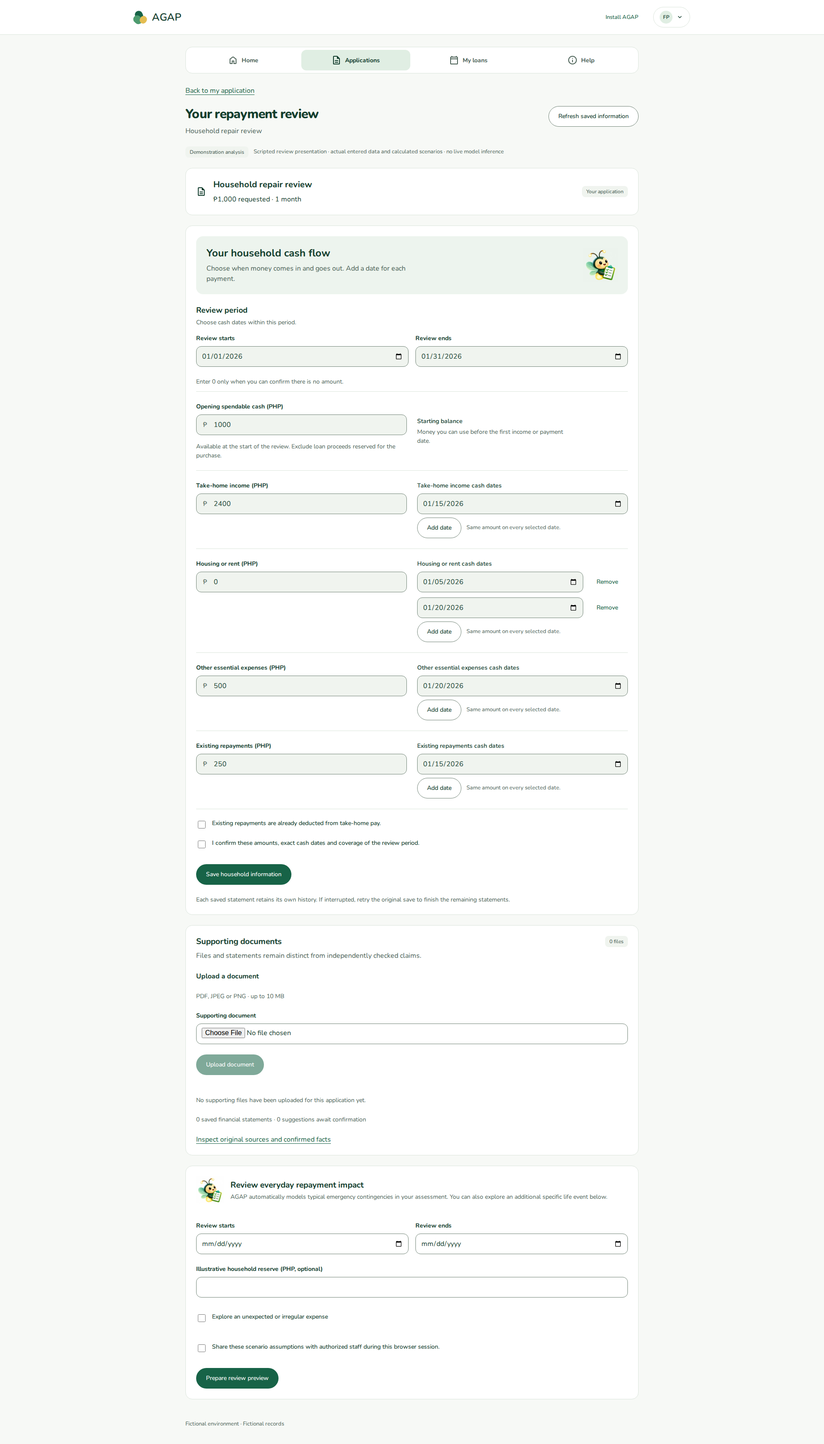
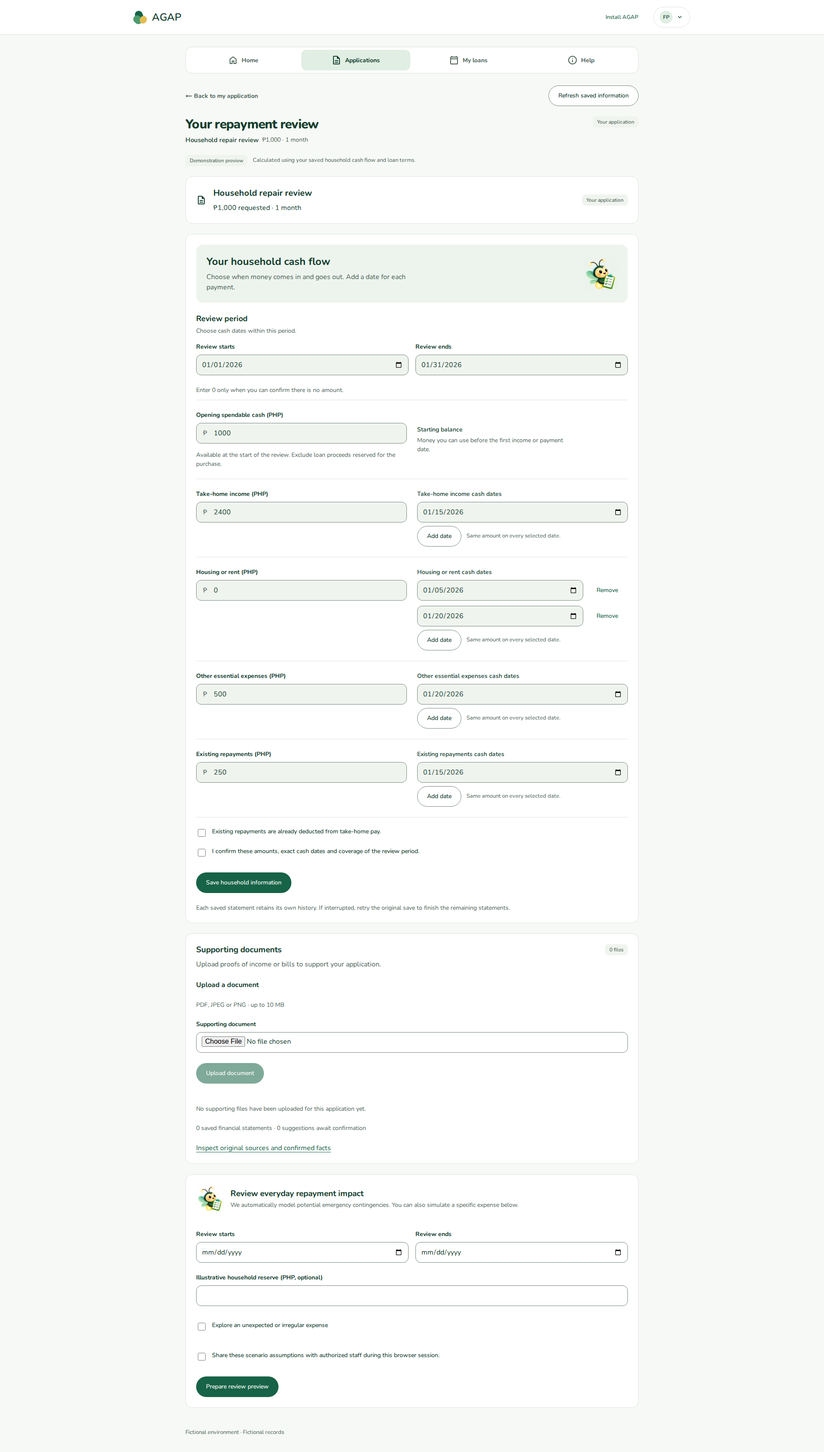
feat(review-ui): streamline page hierarchy, remove robotic text, and promote review results to top

diff --git a/src/features/review-preview/PreviewPages.tsx b/src/features/review-preview/PreviewPages.tsx
@@ -20,12 +20,31 @@ import styles from './preview.module.css';
 const steps=['Gathering saved information','Checking sources and missing details','Comparing repayment scenarios','Preparing the 5C review'];
 export function MemberPreviewPage(){const {id}=useParams(),{session,client}=useMember();if(!session||session.recordMode==='real')return <Notice>Demonstration analysis is available only in the fictional environment.</Notice>;return <PreviewWorkspace key={`${id}:${session.principal.memberId}`} id={id!} member client={client} csrf={session.csrfToken}/>;}
 export function StaffPreviewPage(){const {id}=useParams(),{session,client}=useStaff();if(!session||session.recordMode==='real'||!session.user.roles.some(r=>['officer','reviewer','auditor'].includes(r)))return <Notice>Demonstration analysis requires authorized lending-review access in the fictional environment.</Notice>;return <PreviewWorkspace key={`${id}:${session.user.id}`} id={id!} member={false} client={client} csrf={session.csrfToken} actor={{id:session.user.id,name:session.user.displayName,roles:session.user.roles}}/>;}
-function Disclosure(){return <p className={styles.disclosure}><Badge>Demonstration analysis</Badge><span>Scripted review presentation · actual entered data and calculated scenarios · no live model inference</span></p>;}
+function Disclosure(){return <p className={styles.disclosure}><Badge tone="neutral">Demonstration preview</Badge><span>Calculated using your saved household cash flow and loan terms.</span></p>;}
 function PreviewWorkspace({id,member,client,csrf,actor}:{id:string;member:boolean;client:AgapClient;csrf:string;actor?:{id:string;name:string;roles:string[]}}){
  const load=useCallback(async(signal:AbortSignal)=>{const [application,view]=await Promise.all([member?client.getMemberApplication(id,{signal}):client.getApplication(id,{signal}),member?client.getMemberWorkflow(id,{signal}):client.getStaffWorkflow(id,{signal})]);return {application,view};},[client,id,member]);
  const read=useResource(load),[blocked,setBlocked]=useState(false);
  const base=member?`/member/applications/${id}`:`/staff/applications/${id}/evidence`;
- return <div className="stack"><Link to={base}>{member?'Back to my application':'Back to evidence'}</Link><header className={styles.heading}><div><h1>{member?'Your repayment review':'Application analysis'}</h1><p>{read.data?.application.purpose??'Household needs, repayment options and a 5C handoff.'}</p></div><Button variant="secondary" disabled={read.loading||blocked} onClick={read.refresh}>Refresh saved information</Button></header><Disclosure/>{read.loading&&<p role="status">Opening authorized application information…</p>}{read.error&&<Notice tone="warning" role="alert">{read.error}</Notice>}{read.data&&<WorkspaceData key={materialBasis(read.data.view)} view={read.data.view} purpose={read.data.application.purpose} requested={read.data.application.requestedPrincipalCentavos} term={read.data.application.requestedTermMonths} member={member} client={client} csrf={csrf} refresh={read.refresh} onBlocked={setBlocked} officer={actor&&(actor.roles.includes('reviewer')||actor.roles.includes('officer')&&'assignedOfficerId' in read.data.application&&read.data.application.assignedOfficerId===actor.id)?actor.name:undefined}/>}</div>;
+ return <div className="stack">
+  <div className={styles.topRow}>
+   <Link to={base} className={styles.backLink}>← {member?'Back to my application':'Back to evidence'}</Link>
+   <Button variant="secondary" disabled={read.loading||blocked} onClick={read.refresh}>Refresh saved information</Button>
+  </div>
+  <header className={styles.heading}>
+   <div>
+    <h1>{member?'Your repayment review':'Application analysis'}</h1>
+    <div className={styles.headerMeta}>
+     <span className={styles.purposePill}>{read.data?.application.purpose??'Household needs, repayment options and a 5C handoff.'}</span>
+     {read.data?.application&&<span className={styles.amountPill}><Money value={read.data.application.requestedPrincipalCentavos}/> · {read.data.application.requestedTermMonths} {read.data.application.requestedTermMonths===1?'month':'months'}</span>}
+    </div>
+   </div>
+   <Badge tone="neutral">{member?'Your application':'Authorized staff view'}</Badge>
+  </header>
+  <Disclosure/>
+  {read.loading&&<p role="status">Opening authorized application information…</p>}
+  {read.error&&<Notice tone="warning" role="alert">{read.error}</Notice>}
+  {read.data&&<WorkspaceData key={materialBasis(read.data.view)} view={read.data.view} purpose={read.data.application.purpose} requested={read.data.application.requestedPrincipalCentavos} term={read.data.application.requestedTermMonths} member={member} client={client} csrf={csrf} refresh={read.refresh} onBlocked={setBlocked} officer={actor&&(actor.roles.includes('reviewer')||actor.roles.includes('officer')&&'assignedOfficerId' in read.data.application&&read.data.application.assignedOfficerId===actor.id)?actor.name:undefined}/>}
+ </div>;
 }
 function WorkspaceData({view,purpose,requested,term,member,client,csrf,refresh,officer,onBlocked}:{view:View;purpose:string;requested:number;term:number;member:boolean;client:AgapClient;csrf:string;refresh:()=>void;officer?:string;onBlocked:(value:boolean)=>void}){
  const context=usePreview(),basis=materialBasis(view),initial=context.get(view.applicationId,basis)??defaultAssumptions(view);
@@ -38,12 +57,42 @@ function WorkspaceData({view,purpose,requested,term,member,client,csrf,refresh,o
  useEffect(()=>{if(!active||active.stage>=steps.length)return;const delay=window.matchMedia('(prefers-reduced-motion: reduce)').matches?0:650;timer.current=setTimeout(()=>setRun(old=>old?.basis===basis?{...old,stage:old.stage+1}:old),delay);return()=>{if(timer.current)clearTimeout(timer.current);};},[active,basis]);
  useEffect(()=>{if(active?.stage===steps.length){result.current?.scrollIntoView({block:'start'});result.current?.focus({preventScroll:true});}},[active?.stage]);
  function start(assumptions:Assumptions,share:boolean){if(householdBusy||uploadBusy)return;context.share(view.applicationId,share?{basis,assumptions}:null);setLast(assumptions);setEditing(false);setRun({basis,assumptions,stage:0});}
- return <><section className={`panel panel-body ${styles.request}`}><Description size={24}/><div><h2>{purpose}</h2><p><Money value={requested}/> requested · {term} {term===1?'month':'months'}</p></div><Badge>{member?'Your application':'Authorized staff view'}</Badge></section>
- {member&&<section className="panel panel-body"><HouseholdForm key={view.applicationId} view={view} client={client} csrf={csrf} member saved={refresh} onBusy={setHouseholdBusy} disabled={uploadBusy}/></section>}
- <section className="panel panel-body stack"><div className={styles.heading}><div><h2>Supporting documents</h2><p>Files and statements remain distinct from independently checked claims.</p></div><Badge>{view.sources.filter(s=>s.kind==='document').length} {view.sources.filter(s=>s.kind==='document').length===1?'file':'files'}</Badge></div>{member&&<WorkflowUpload id={view.applicationId} client={client} csrf={csrf} member saved={refresh} onBusy={setUploadBusy} disabled={householdBusy}/>}<div className={styles.sources}>{view.sources.filter(s=>s.kind==='document').map(s=><article key={s.id}><Description/><div><h3>{s.label}</h3><p>{s.state==='cleared'?'File checks passed':s.state==='blocked'?'File unavailable':'Received · awaiting file checks'}</p></div><Badge tone={s.state==='cleared'?'neutral':'warning'}>{s.verification==='supported'?'Verification recorded':'Not independently verified'}</Badge></article>)}</div>{!view.sources.some(s=>s.kind==='document')&&<p className="small subtle">No supporting files have been uploaded for this application yet.</p>}<p className="small subtle">{view.facts.length} saved financial statements · {view.drafts.filter(d=>d.state==='suggested').length} suggestions await confirmation</p><Link to={member?`/member/applications/${view.applicationId}`:`/staff/applications/${view.applicationId}/evidence`}>Inspect original sources and confirmed facts</Link></section>
- {(editing||!active)&&<section className="panel panel-body"><ScenarioForm key={basis} initial={last} run={start} disabled={householdBusy||uploadBusy}/></section>}
- {active&&active.stage<steps.length&&<section className={`panel panel-body stack ${styles.processing}`} aria-label="Demonstration review processing"><div className={styles.heading}><FindInPage size={28}/><h2>Preparing your review</h2><Badge>Demo playback</Badge></div><p role="status">{steps[active.stage]}…</p><ol className={styles.progress}>{steps.map((step,i)=><li key={step} aria-current={i===active.stage?'step':undefined} data-complete={i<active.stage}><span>{i+1}</span>{step}<small>{i<active.stage?'Complete':i===active.stage?'In progress':'Next'}</small></li>)}</ol><div className="actions"><Button onClick={()=>setRun({...active,stage:steps.length})}>Show review now</Button><Button variant="secondary" onClick={()=>{setRun(null);setEditing(true);}}>Cancel review</Button></div></section>}
- {active&&active.stage===steps.length&&<><h2 ref={result} tabIndex={-1} className={styles.resultHeading}>Analysis and next steps</h2><ReviewReport key={JSON.stringify(active.assumptions)} view={view} purpose={purpose} member={member} assumptions={active.assumptions} officer={officer} revise={()=>{setEditing(true);setRun(null);}}/></>}
+
+ const isResultsReady=active&&active.stage===steps.length;
+
+ return <>
+  {!isResultsReady&&<section className={`panel panel-body ${styles.request}`}><Description size={24}/><div><h2>{purpose}</h2><p><Money value={requested}/> requested · {term} {term===1?'month':'months'}</p></div><Badge>{member?'Your application':'Authorized staff view'}</Badge></section>}
+
+  {isResultsReady&&<>
+   <h2 ref={result} tabIndex={-1} className={styles.resultHeading}>Analysis and next steps</h2>
+   <ReviewReport key={JSON.stringify(active.assumptions)} view={view} purpose={purpose} member={member} assumptions={active.assumptions} officer={officer} revise={()=>{setEditing(true);setRun(null);}}/>
+  </>}
+
+  {(editing||!active)&&<>
+   {member&&<section className="panel panel-body"><HouseholdForm key={view.applicationId} view={view} client={client} csrf={csrf} member saved={refresh} onBusy={setHouseholdBusy} disabled={uploadBusy}/></section>}
+   <section className="panel panel-body stack"><div className={styles.heading}><div><h2>Supporting documents</h2><p>Upload proofs of income or bills to support your application.</p></div><Badge>{view.sources.filter(s=>s.kind==='document').length} {view.sources.filter(s=>s.kind==='document').length===1?'file':'files'}</Badge></div>{member&&<WorkflowUpload id={view.applicationId} client={client} csrf={csrf} member saved={refresh} onBusy={setUploadBusy} disabled={householdBusy}/>}<div className={styles.sources}>{view.sources.filter(s=>s.kind==='document').map(s=><article key={s.id}><Description/><div><h3>{s.label}</h3><p>{s.state==='cleared'?'File checks passed':s.state==='blocked'?'File unavailable':'Received · awaiting file checks'}</p></div><Badge tone={s.state==='cleared'?'neutral':'warning'}>{s.verification==='supported'?'Verification recorded':'Not independently verified'}</Badge></article>)}</div>{!view.sources.some(s=>s.kind==='document')&&<p className="small subtle">No supporting files have been uploaded for this application yet.</p>}<p className="small subtle">{view.facts.length} saved financial statement{view.facts.length===1?'':'s'} · {view.drafts.filter(d=>d.state==='suggested').length} suggestion{view.drafts.filter(d=>d.state==='suggested').length===1?' awaits':'s await'} confirmation</p><Link to={member?`/member/applications/${view.applicationId}`:`/staff/applications/${view.applicationId}/evidence`}>Inspect original sources and confirmed facts</Link></section>
+   <section className="panel panel-body"><ScenarioForm key={basis} initial={last} run={start} disabled={householdBusy||uploadBusy}/></section>
+  </>}
+
+  {active&&active.stage<steps.length&&<section className={`panel panel-body stack ${styles.processing}`} aria-label="Demonstration review processing"><div className={styles.heading}><FindInPage size={28}/><h2>Preparing your review</h2><Badge>Demo playback</Badge></div><p role="status">{steps[active.stage]}…</p><ol className={styles.progress}>{steps.map((step,i)=><li key={step} aria-current={i===active.stage?'step':undefined} data-complete={i<active.stage}><span>{i+1}</span>{step}<small>{i<active.stage?'Complete':i===active.stage?'In progress':'Next'}</small></li>)}</ol><div className="actions"><Button onClick={()=>setRun({...active,stage:steps.length})}>Show review now</Button><Button variant="secondary" onClick={()=>{setRun(null);setEditing(true);}}>Cancel review</Button></div></section>}
+
+  {isResultsReady&&<details className={`panel panel-body ${styles.inputSectionDetails}`}>
+   <summary className={styles.detailsSummary}>
+    <div className={styles.summaryTitle}>
+     <Description size={20}/>
+     <div>
+      <strong>Review inputs & supporting files</strong>
+      <p className="small subtle">Household facts ({view.facts.length}) and documents ({view.sources.filter(s=>s.kind==='document').length})</p>
+     </div>
+    </div>
+    <span className={styles.expandLabel}>View or edit</span>
+   </summary>
+   <div className="stack" style={{marginTop:'var(--space-4, 16px)'}}>
+    {member&&<HouseholdForm key={view.applicationId} view={view} client={client} csrf={csrf} member saved={refresh} onBusy={setHouseholdBusy} disabled={uploadBusy}/>}
+    <div className={styles.sources}>{view.sources.filter(s=>s.kind==='document').map(s=><article key={s.id}><Description/><div><h3>{s.label}</h3><p>{s.state==='cleared'?'File checks passed':s.state==='blocked'?'File unavailable':'Received · awaiting file checks'}</p></div><Badge tone={s.state==='cleared'?'neutral':'warning'}>{s.verification==='supported'?'Verification recorded':'Not independently verified'}</Badge></article>)}</div>
+    <Link to={member?`/member/applications/${view.applicationId}`:`/staff/applications/${view.applicationId}/evidence`}>Inspect original sources and confirmed facts</Link>
+   </div>
+  </details>}
  </>;
 }
 

diff --git a/src/features/review-preview/ReviewReport.tsx b/src/features/review-preview/ReviewReport.tsx
@@ -48,7 +48,7 @@ export function ReviewReport({view,assumptions,member,purpose,revise,officer}:{v
       <h2>Review prepared</h2>
       <Badge tone={result.priority==='urgent'?'danger':result.priority==='routine'?'brand':'warning'}>{priorityLabel[result.priority]}</Badge>
      </div>
-     <p className={styles.heroSubtitle}>Automated predictive risk modeling, multi-scenario stress analysis, and 5C readiness assessment.</p>
+     <p className={styles.heroSubtitle}>{member?'Repayment readiness and scenario evaluation for your loan request.':'Source-linked 5C assessment with predictive risk modeling.'}</p>
     </div>
    </div>
 
@@ -65,10 +65,9 @@ export function ReviewReport({view,assumptions,member,purpose,revise,officer}:{v
      <div className={styles.overallDetails}>
       <div className={styles.overallBadgeRow}>
        <Badge tone={result.overallScore>=80?'brand':result.overallScore>=65?'warning':'danger'}>{result.overallConfidence}</Badge>
-       <span className={styles.confidenceText}>Weighted Predictive Model</span>
       </div>
       <p className={styles.lead}>{result.reason}</p>
-      <p className="small subtle">{result.priority==='urgent'?'Actionable restructuring recommendations flagged below before final officer approval.':result.priority==='clarification'?'Request the missing information before preparing an approval recommendation.':'Favorable readiness score across baseline and modeled contingency scenarios.'}</p>
+      <p className="small subtle">{result.priority==='urgent'?'Actionable restructuring recommendations flagged below before final officer approval.':result.priority==='clarification'?(member?'Some required information or documentation is still being reviewed by the cooperative.':'Request the missing information before preparing an approval recommendation.'):'Favorable readiness score across baseline and modeled contingency scenarios.'}</p>
      </div>
     </div>
 
@@ -81,7 +80,7 @@ export function ReviewReport({view,assumptions,member,purpose,revise,officer}:{v
      <div className={styles.vitalCard}>
       <span className={styles.vitalLabel}>Lowest Cash Buffer</span>
       <strong className={`${styles.vitalValue} ${result.lowest!==null&&result.lowest<0?styles.vitalNegative:''}`}>{result.lowest!==null?<Money value={result.lowest}/>:<>Unavailable</>}</strong>
-      <span className={styles.vitalHint}>{option?.stressed?'Under modeled emergency':'In baseline review'}</span>
+      <span className={styles.vitalHint}>{option?.stressed?'With emergency expense':'In baseline review'}</span>
      </div>
      <div className={styles.vitalCard}>
       <span className={styles.vitalLabel}>Debt-to-Income</span>
@@ -89,15 +88,14 @@ export function ReviewReport({view,assumptions,member,purpose,revise,officer}:{v
       <span className={styles.vitalHint}>{dtiPercent<=35?'Healthy debt ratio':'Elevated debt pressure'}</span>
      </div>
      <div className={styles.vitalCard}>
-      <span className={styles.vitalLabel}>Risk Flags Flagged</span>
+      <span className={styles.vitalLabel}>Identified Risks</span>
       <strong className={`${styles.vitalValue} ${result.redFlags.some(f=>f.severity==='danger')?styles.vitalDanger:''}`}>{result.redFlags.filter(f=>f.severity!=='info').length}</strong>
-      <span className={styles.vitalHint}>Active alerts with solvers</span>
+      <span className={styles.vitalHint}>{result.redFlags.filter(f=>f.severity!=='info').length===0?'No active risks flagged':'Alerts with solutions'}</span>
      </div>
     </div>
    </div>
 
    {result.issues.length>0&&<Notice tone="warning"><ul>{result.issues.map(i=><li key={i}>{i}</li>)}</ul></Notice>}
-   <p className="small subtle">{result.authoritative?'Uses the current saved server assessment.':'Demonstration analysis based on confirmed household cash flows and automated contingency risk modeling.'} Rubric-based model evaluation produced across the 5C framework.</p>
    {downloadError&&<Notice tone="warning" role="alert">{downloadError}</Notice>}
    <div className="actions">
     <Button variant="secondary" onClick={revise}>Change scenario</Button>
@@ -110,8 +108,8 @@ export function ReviewReport({view,assumptions,member,purpose,revise,officer}:{v
   <section className="panel panel-body stack" aria-label="Risk assessment and model recommendations">
    <div className={styles.heading}>
     <div>
-     <h2>Risk assessment & model recommendations</h2>
-     <p>The predictive engine identifies repayment vulnerabilities and suggests concrete corrective solutions.</p>
+     <h2>Identified risks & suggested solutions</h2>
+     <p>Potential repayment challenges and suggested ways to keep your loan on track.</p>
     </div>
     <Badge tone={result.redFlags.some(f=>f.severity==='danger')?'danger':result.redFlags.some(f=>f.severity==='warning')?'warning':'brand'}>
      {result.redFlags.filter(f=>f.severity!=='info').length} {result.redFlags.filter(f=>f.severity!=='info').length===1?'alert':'alerts'} flagged
@@ -149,10 +147,10 @@ export function ReviewReport({view,assumptions,member,purpose,revise,officer}:{v
   {option&&<section className="panel panel-body stack">
    <div className={styles.heading}>
     <div>
-     <h2>Automated risk scenarios & stress test</h2>
-     <p>Unexpected events are modeled automatically so the applicant is not required to anticipate emergencies alone.</p>
+     <h2>Scenario comparison</h2>
+     <p>Comparing baseline repayment against unexpected emergency expenses.</p>
     </div>
-    <Badge tone="neutral">Predictive Stress Modeling</Badge>
+    <Badge tone="neutral">Stress test</Badge>
    </div>
 
    <div className={styles.scenarioComparisonGrid}>
@@ -230,7 +228,7 @@ export function ReviewReport({view,assumptions,member,purpose,revise,officer}:{v
    <div className={styles.heading}>
     <div>
      <h2>5C review</h2>
-     <p>A source-linked draft for the officer’s judgment with percentage ratings and confidence levels.</p>
+     <p>{member?'Evaluation across standard cooperative lending dimensions.':'Source-linked 5C assessment with percentage ratings and confidence scores.'}</p>
     </div>
     <Badge>Demonstration draft</Badge>
    </div>
@@ -264,8 +262,8 @@ export function ReviewReport({view,assumptions,member,purpose,revise,officer}:{v
   <OfficerFollowUp key={option?.offerId} view={view} assumptions={assumptions} option={option} member={member} officer={officer}/>
   <section className="panel panel-body stack">
    <h2>Evidence and questions</h2>
-   {result.pendingDocuments.length>0&&<Notice tone="warning">{result.pendingDocuments.length} uploaded document(s) await successful file checks. Their contents have not been used as verified evidence.</Notice>}
-   {result.unreviewed.length>0&&<Notice tone="warning">{result.unreviewed.length} source suggestion(s) still need human checking.</Notice>}
+   {result.pendingDocuments.length>0&&<Notice tone="warning">{result.pendingDocuments.length===1?'1 uploaded document awaits file verification checks.':`${result.pendingDocuments.length} uploaded documents await file verification checks.`} Verification is conducted by staff.</Notice>}
+   {result.unreviewed.length>0&&<Notice tone="warning">{result.unreviewed.length===1?'1 financial statement suggestion awaits confirmation.':`${result.unreviewed.length} financial statement suggestions await confirmation.`}</Notice>}
    <ul>
     <li>Are there upcoming school costs, repairs, health expenses or income changes missing from the recorded period?</li>
     <li>Does the entered reserve cover the member’s needs under the cooperative’s agreed rules?</li>
@@ -286,7 +284,7 @@ export function ScenarioForm({initial,run,disabled=false}:{initial:Assumptions;r
    <img src={`${import.meta.env.BASE_URL}workspace/gabay-guiding.webp`} alt="" width={56} height={56} className={styles.heroMascot} decoding="async"/>
    <div className={styles.heroText}>
     <h2>Review everyday repayment impact</h2>
-    <p className={styles.heroSubtitle}>AGAP automatically models typical emergency contingencies in your assessment. You can also explore an additional specific life event below.</p>
+    <p className={styles.heroSubtitle}>We automatically model potential emergency contingencies. You can also simulate a specific expense below.</p>
    </div>
   </div>
   {error&&<div ref={errors} tabIndex={-1}><Notice tone="warning" role="alert">{error}</Notice></div>}
@@ -296,7 +294,7 @@ export function ScenarioForm({initial,run,disabled=false}:{initial:Assumptions;r
   {expense&&<div className={styles.shock}>
    <div className="field"><label htmlFor="preview-expense">What expense would you like to explore?</label><input id="preview-expense" required maxLength={200} value={label} onChange={e=>setLabel(e.target.value)}/></div>
    <div className={styles.two}><div className="field"><label htmlFor="preview-expense-amount">Hypothetical amount (PHP)</label><input id="preview-expense-amount" inputMode="decimal" required value={amount} onChange={e=>setAmount(e.target.value)}/></div><div className="field"><label htmlFor="preview-expense-date">Hypothetical expense date</label><input id="preview-expense-date" type="date" required value={date} onChange={e=>setDate(e.target.value)}/></div></div>
-   <p className="small subtle">A what-if assumption, not an event predicted by AGAP.</p>
+   <p className="small subtle">Explore how a specific unexpected expense affects your monthly cash buffer.</p>
   </div>}
   <label className={styles.check}><input type="checkbox" checked={share} onChange={e=>setShare(e.target.checked)}/> Share these scenario assumptions with authorized staff during this browser session.</label>
   <div><Button type="submit" disabled={disabled}>Prepare review preview</Button></div>

diff --git a/src/features/review-preview/analysis.ts b/src/features/review-preview/analysis.ts
@@ -203,17 +203,27 @@ export function buildReview(view:View, assumptions:Assumptions, purpose:string =
   }
 
   if(pendingDocuments.length>0||unreviewed.length>0){
+    const docCount=pendingDocuments.length, suggCount=unreviewed.length;
+    let descText='Supporting documents await verification by cooperative staff.';
+    if(docCount>0&&suggCount>0){
+      descText=`${docCount} uploaded ${docCount===1?'file':'files'} and ${suggCount} financial statement ${suggCount===1?'suggestion':'suggestions'} await staff review.`;
+    }else if(docCount>0){
+      descText=`${docCount} uploaded ${docCount===1?'document awaits':'documents await'} staff verification checks.`;
+    }else if(suggCount>0){
+      descText=`${suggCount} financial statement ${suggCount===1?'suggestion awaits':'suggestions await'} confirmation.`;
+    }
+
     redFlags.push({
       id:'unverified-evidence',
       title:'Supporting Documents Awaiting Verification',
       severity:'info',
       category:'documentation',
-      description:`${pendingDocuments.length} uploaded document(s) or ${unreviewed.length} suggestion(s) await staff file check and confirmation.`,
+      description:descText,
       suggestedSolution:{
         title:'Complete Staff Verification',
-        description:'Staff reviews uploaded income proofs or statement excerpts to finalize verified capacity.',
+        description:'Staff reviews uploaded income proofs to confirm reported household figures.',
         actionType:'document',
-        impact:'Elevates 5C Character & Capacity confidence rating to High Confidence (90%+).'
+        impact:'Completes document verification for official loan decision.'
       }
     });
   }
@@ -221,15 +231,15 @@ export function buildReview(view:View, assumptions:Assumptions, purpose:string =
   if(issues.some(i=>i.includes('No available offer'))){
     redFlags.push({
       id:'missing-offer',
-      title:'Pending Officer Assessment & Product Terms',
+      title:'Pending Officer Assessment & Terms',
       severity:'warning',
       category:'capacity',
-      description:'Public offer terms lack complete dated fee projections; officer assessment is required.',
+      description:'Cooperative staff will review application details and configure available repayment schedules.',
       suggestedSolution:{
-        title:'Generate Officer Assessment',
-        description:'Loan officer configures approved loan terms and dated fee schedule in the staff workspace.',
+        title:'Staff Term Configuration',
+        description:'A loan officer configures approved terms and dated repayment schedules for this request.',
         actionType:'schedule',
-        impact:'Unlocks finalized scenario comparison and approval decision.'
+        impact:'Enables finalized scenario comparison and approval decision.'
       }
     });
   }
@@ -251,7 +261,7 @@ export function buildReview(view:View, assumptions:Assumptions, purpose:string =
   }
 
   // 5C Review with percentage outputs and confidence ratings
-  const capacityText=recommended?`Lowest dated balance ${money(recommended.baseline.lowestBalanceCentavos)}; full contractual repayment ${money(recommended.baseline.totalRepaymentCentavos)}. ${recommended.baseline.months.map(m=>`${m.month}: baseline ${money(m.remainingCentavos)} remaining${recommended.stressed?`, what-if ${money(recommended.stressed.months.find(sm=>sm.month===m.month)!.remainingCentavos)} remaining`:''}`).join('; ')}.${recommended.stressed?` What-if lowest balance: ${money(recommended.stressed.lowest)}.`:''}`:'Capacity is unavailable until required facts, dates and permitted offers are supplied.';
+  const capacityText=recommended?`Lowest dated balance ${money(recommended.baseline.lowestBalanceCentavos)}; full contractual repayment ${money(recommended.baseline.totalRepaymentCentavos)}. ${recommended.baseline.months.map(m=>`${m.month}: baseline ${money(m.remainingCentavos)} remaining${recommended.stressed?`, what-if ${money(recommended.stressed.months.find(sm=>sm.month===m.month)!.remainingCentavos)} remaining`:''}`).join('; ')}.${recommended.stressed?` What-if lowest balance: ${money(recommended.stressed.lowest)}.`:''}`:'Capacity details will be evaluated once required facts and repayment schedules are confirmed.';
 
   // 1. Character Score (0-100%)
   let charScore=85, charConfidence='High Confidence', charTone:'success'|'warning'|'danger'='success';
@@ -266,7 +276,7 @@ export function buildReview(view:View, assumptions:Assumptions, purpose:string =
     confidenceLabel:charConfidence,
     statusBadge:`${charScore}% · ${charConfidence}`,
     meterTone:charTone,
-    text:'Authorized repayment history and relevant verification findings have been evaluated in this preview. Missing history is not evidence of dishonesty.',
+    text:'Repayment track record and member standing within the cooperative. Good standing and complete documentation support loan clearance.',
     breakdown:[
       { factor:'Member identity & standing', status:'passed' },
       { factor:pendingDocuments.length===0?'Supporting documents cleared':'Document verification in progress', status:pendingDocuments.length===0?'passed':'warning' },
@@ -310,7 +320,7 @@ export function buildReview(view:View, assumptions:Assumptions, purpose:string =
     confidenceLabel:capitalConfidence,
     statusBadge:`${capitalScore}% · ${capitalConfidence}`,
     meterTone:capitalTone,
-    text:opening?.availability==='recorded'?`Opening spendable cash: ${money(opening.amountCentavos)}. Ownership, restrictions, share capital and other resources still require the appropriate checks.`:'Accessible opening cash is unavailable. Assets or share capital cannot be assumed spendable.',
+    text:opening?.availability==='recorded'?`Opening spendable cash: ${money(opening.amountCentavos)}. Spendable reserves provide a cushion against unexpected cash shortfalls.`:'Accessible opening cash has not been recorded yet. Share capital and emergency reserves provide additional stability.',
     breakdown:[
       { factor:'Spendable cash balance', status:opening?.availability==='recorded'?'passed':'warning' },
       { factor:'Emergency reserve cushion', status:assumptions.reserve!==null?'passed':'info' }
@@ -327,7 +337,7 @@ export function buildReview(view:View, assumptions:Assumptions, purpose:string =
     confidenceLabel:collateralConfidence,
     statusBadge:`${collateralScore}% · ${collateralConfidence}`,
     meterTone:issues.length>0?'warning':'success',
-    text:'An officer must confirm whether this product requires security, then check any relevant ownership, valuation or guarantee evidence. Standard cooperative micro-lending policy applies.',
+    text:'Standard cooperative micro-lending policy applies. Staff confirms whether security, chattel, or co-maker guarantees are required for this loan amount.',
     breakdown:[
       { factor:'Unsecured micro-lending conformance', status:'passed' },
       { factor:'Cooperative share capital backup', status:'passed' }
@@ -339,7 +349,7 @@ export function buildReview(view:View, assumptions:Assumptions, purpose:string =
   const condScore=lowest!==null&&lowest<0?74:86;
   const condConfidence=lowest!==null&&lowest<0?'Restructuring Recommended':'Favorable Conditions';
   const reviewDatesText=isCalendarDate(assumptions.start)&&isCalendarDate(assumptions.end)?`Review: ${dateLabel(assumptions.start)} to ${dateLabel(assumptions.end)}.`: 'Review dates pending confirmation.';
-  const expenseText=assumptions.expense&&isCalendarDate(assumptions.expense.date)?`Hypothetical ${assumptions.expense.label}: ${money(assumptions.expense.amount)} on ${dateLabel(assumptions.expense.date)}. This is a what-if assumption, not a predicted event.`:'Automated contingency risk has been modeled across the review horizon.';
+  const expenseText=assumptions.expense&&isCalendarDate(assumptions.expense.date)?`Simulated ${assumptions.expense.label}: ${money(assumptions.expense.amount)} on ${dateLabel(assumptions.expense.date)}.`:'Automated contingency risk has been modeled across the review horizon.';
   const conditions:FiveCDimension={
     name:'Conditions',
     scorePercent:condScore,

diff --git a/src/features/review-preview/preview.module.css b/src/features/review-preview/preview.module.css
@@ -1,3 +1,16 @@
+.topRow{display:flex;justify-content:space-between;align-items:center;gap:12px;flex-wrap:wrap}
+.backLink{display:inline-flex;align-items:center;gap:6px;min-height:44px;color:var(--muted);text-decoration:none;font-size:14px;font-weight:700}
+.backLink:hover{color:var(--primary)}
+.headerMeta{display:flex;align-items:center;gap:8px;flex-wrap:wrap;margin-top:6px}
+.purposePill{font-size:15px;font-weight:600;color:var(--ink)}
+.amountPill{font-size:14px;color:var(--muted)}
+.inputSectionDetails{border:1px solid var(--line);border-radius:var(--radius);background:var(--surface);padding:16px 20px}
+.detailsSummary{display:flex;justify-content:space-between;align-items:center;gap:12px;cursor:pointer;list-style:none}
+.detailsSummary::-webkit-details-marker{display:none}
+.summaryTitle{display:flex;align-items:center;gap:12px}
+.summaryTitle strong{font-size:15px;color:var(--ink)}
+.summaryTitle p{margin:2px 0 0}
+.expandLabel{font-size:13px;font-weight:600;color:var(--primary);white-space:nowrap}
 .heading,.saved{display:flex;justify-content:space-between;align-items:flex-start;gap:var(--space-4,16px);flex-wrap:wrap}
 .heading h1,.heading h2,.heading h3,.saved h2{margin:0}
 .heading p,.saved p{margin:8px 0 0;max-width:65ch;color:var(--muted)}

diff --git a/src/features/review-preview/HouseholdForm.tsx b/src/features/review-preview/HouseholdForm.tsx
@@ -48,7 +48,7 @@ export function HouseholdForm({view,client,csrf,member,saved,onBusy,disabled=fal
   });
   if(result){setDirty(false);setOpened(false);saved();}
  }
- if(!opened)return <div className={styles.saved}><div><h2>Household information</h2><p>Saved statements and their exact cash dates form the calculation basis.</p></div><Button variant="secondary" disabled={disabled} onClick={()=>setOpened(true)}>Review household entries</Button></div>;
+ if(!opened)return <div className={styles.saved}><div><h2>Household information</h2><p>Confirmed income and essential living expenses for your household.</p></div><Button variant="secondary" disabled={disabled} onClick={()=>setOpened(true)}>Review household entries</Button></div>;
  return <form onSubmit={event=>void submit(event)} className={styles.householdForm}>
   <header className={styles.householdHeader}>
    <div><h2>Your household cash flow</h2><p>Choose when money comes in and goes out. Add a date for each payment.</p></div>

diff --git a/src/features/member-portal/MemberApp.module.css b/src/features/member-portal/MemberApp.module.css
@@ -144,7 +144,7 @@
 .dialogActions { display: flex; justify-content: flex-end; align-items: center; gap: 12px; flex-wrap: wrap; }
 @media (max-width: 767px) {
   .shell :global(.stack) { gap: 16px; }
-  .main { padding: 16px max(16px, env(safe-area-inset-right)) 20px max(16px, env(safe-area-inset-left)); }
+  .main { padding: 16px max(16px, env(safe-area-inset-right)) 48px max(16px, env(safe-area-inset-left)); }
   .memberShell { display: flex; flex-direction: column; height: 100dvh; padding-bottom: var(--member-nav-height, 82px); overflow: hidden; }
   .memberShell > header { flex-shrink: 0; }
   .signedIn { flex: 1; min-height: 0; overflow: auto; overscroll-behavior-y: contain; }
